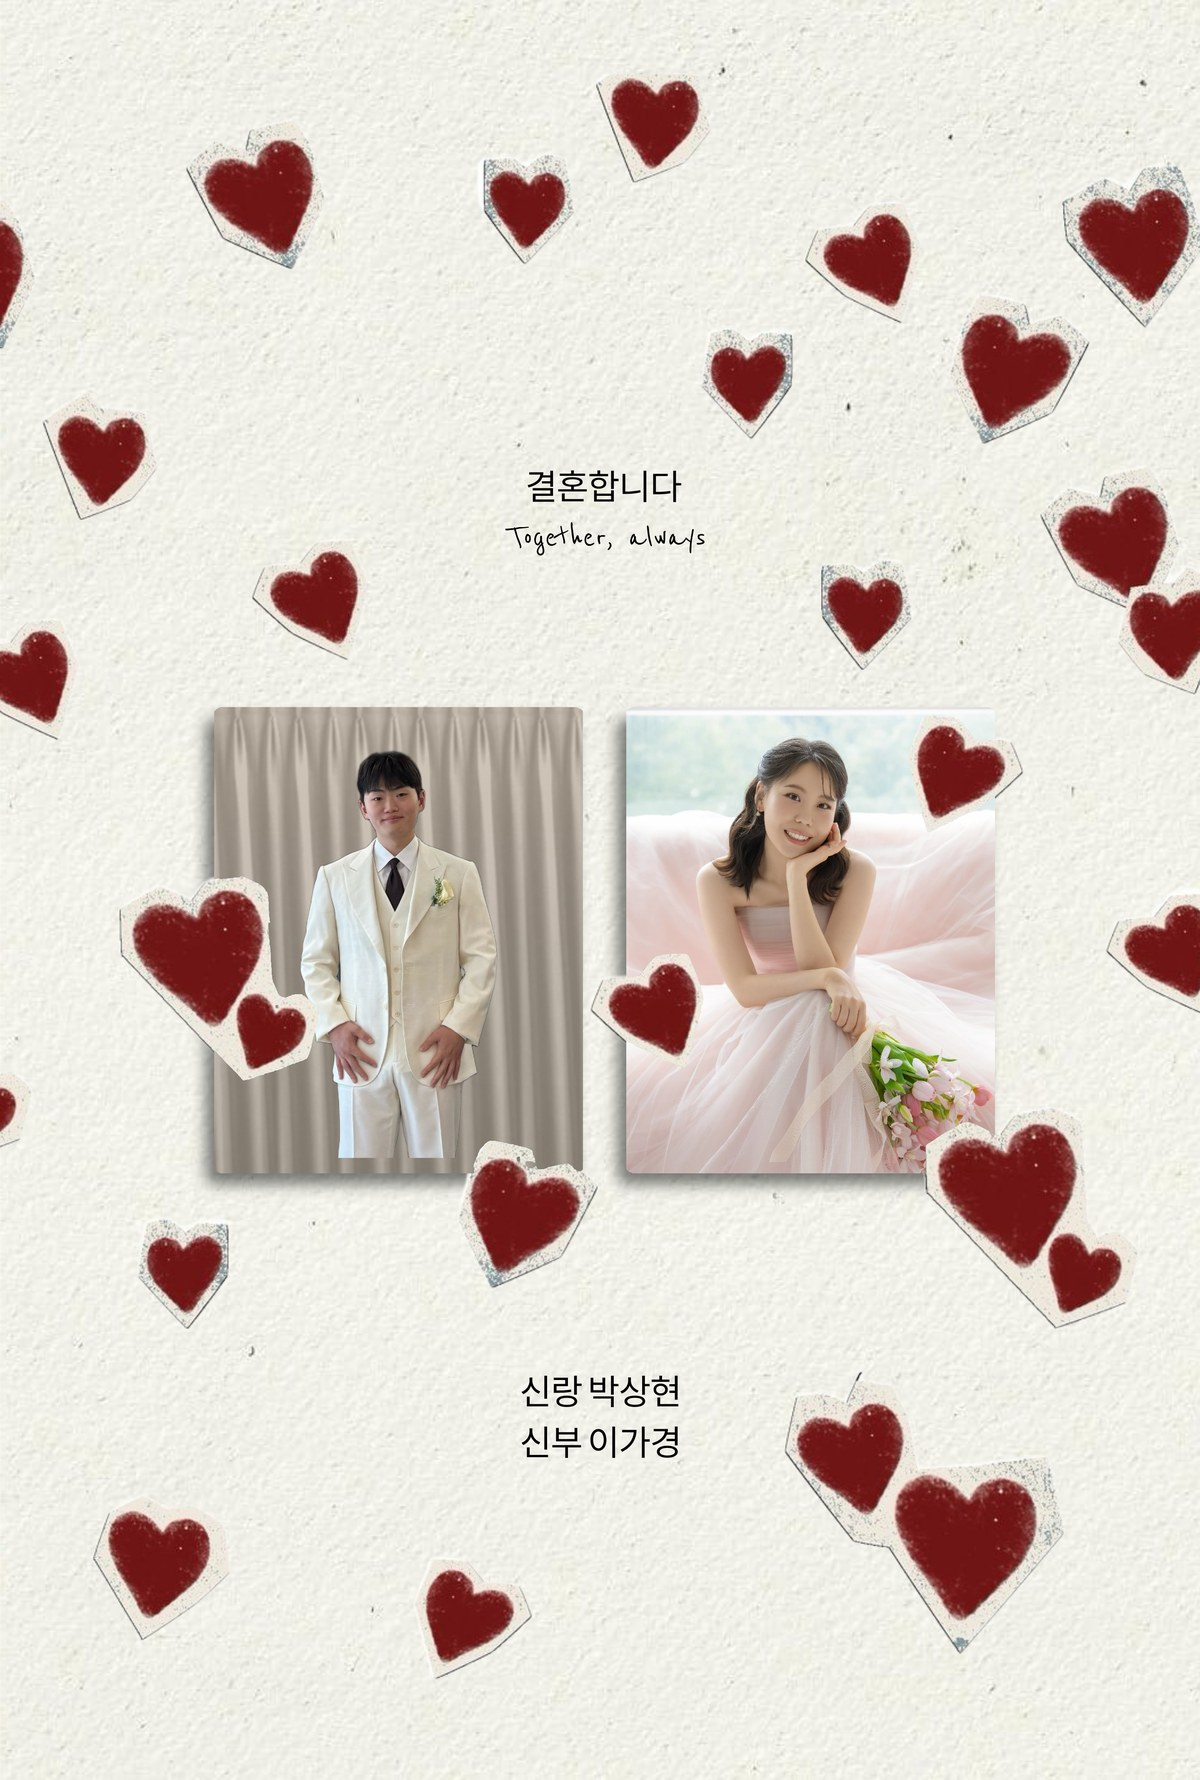
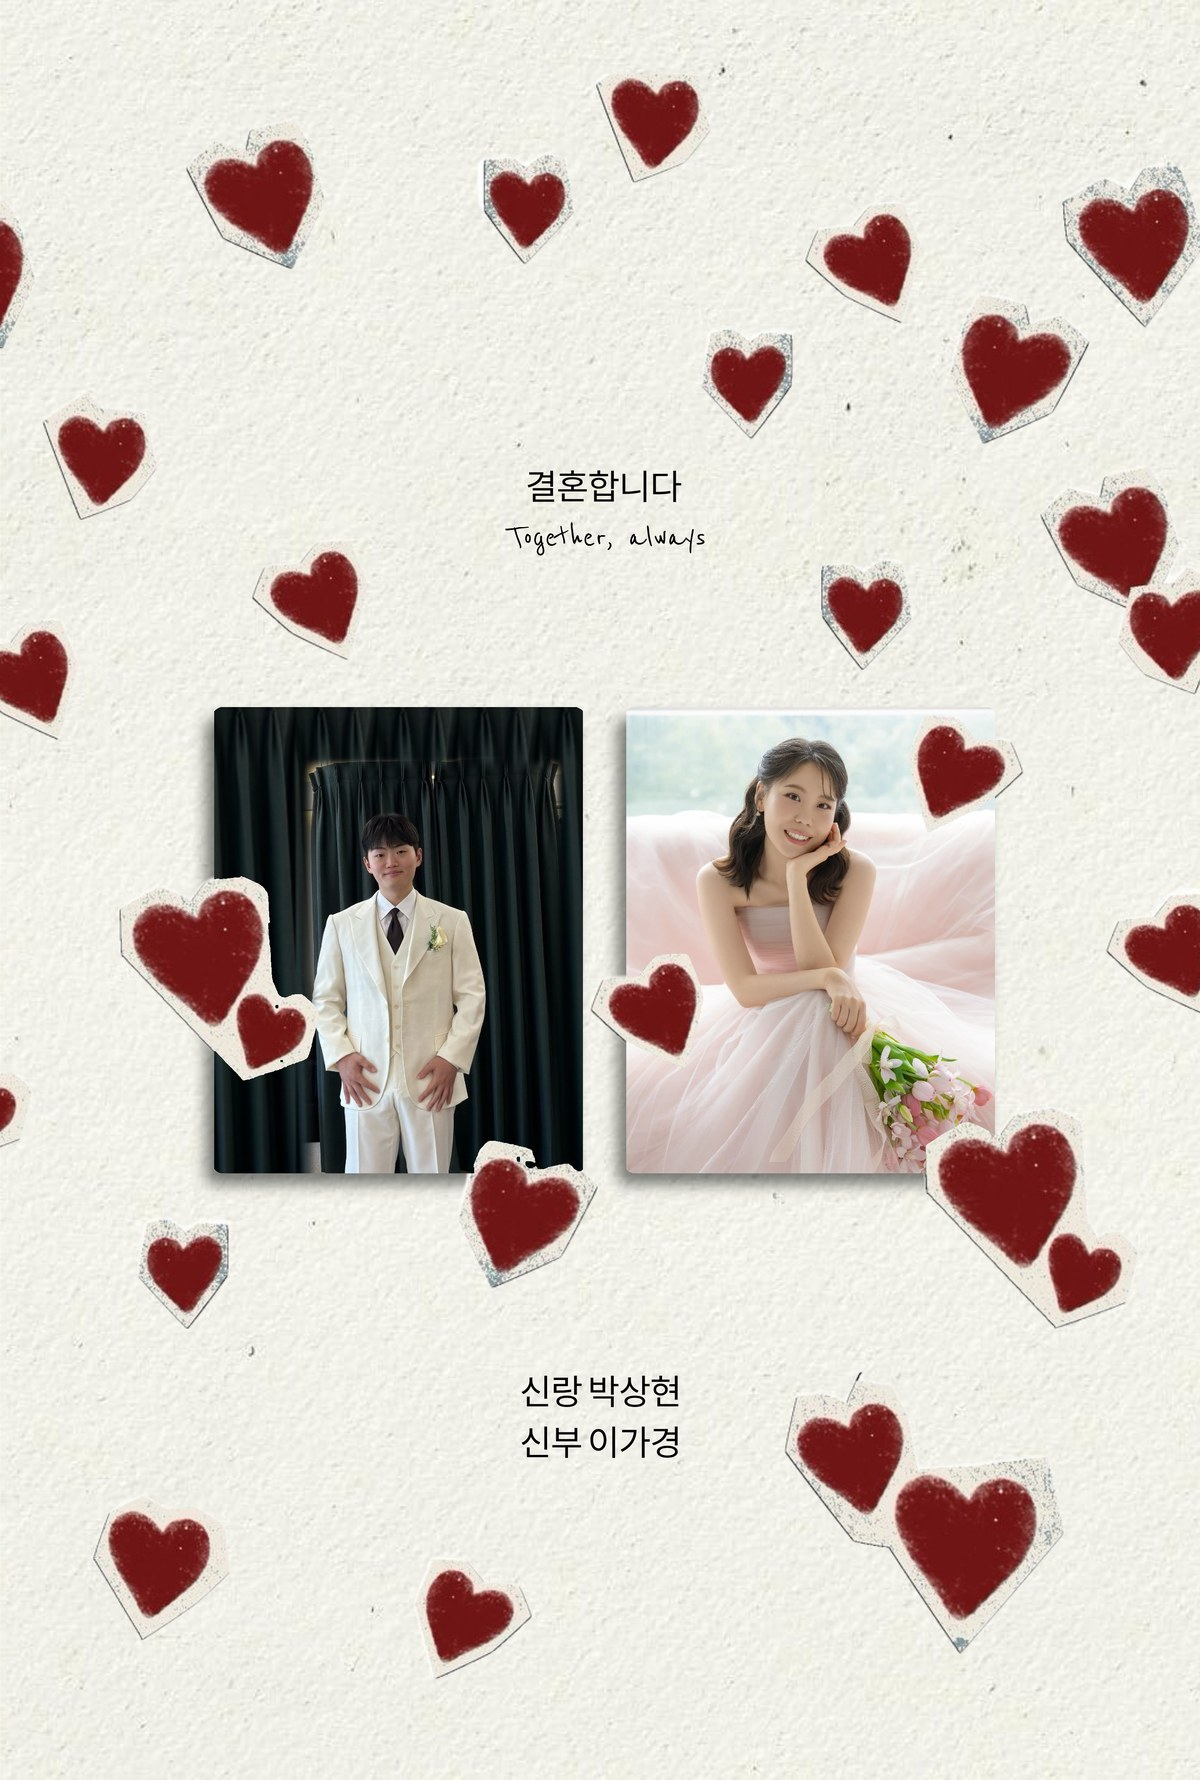
Restore natural groom framing with visible trousers and seamless real curtain (zero cutout)

Changed region(s): [[0.1542, 0.3708, 0.4933, 0.6798]]

diff --git a/index.html b/index.html
@@ -7,7 +7,7 @@
   <title>박상현 ♥ 이가경 결혼합니다</title>
   <meta property="og:title" content="박상현 ♥ 이가경 결혼합니다">
   <meta property="og:description" content="2027년 2월 13일 토요일 낮 12시 10분">
-  <meta property="og:image" content="img/cover.jpg?v=32">
+  <meta property="og:image" content="img/cover.jpg?v=33">
   <link rel="preconnect" href="https://fonts.googleapis.com">
   <link rel="preconnect" href="https://fonts.gstatic.com" crossorigin>
   <link
@@ -29,7 +29,7 @@
 
     <!-- 1. 인트로 -->
     <section class="intro" id="intro">
-      <img src="img/cover.jpg?v=32" alt="박상현 이가경 결혼합니다">
+      <img src="img/cover.jpg?v=33" alt="박상현 이가경 결혼합니다">
     </section>
 
     <!-- 2. Our Wedding day -->
